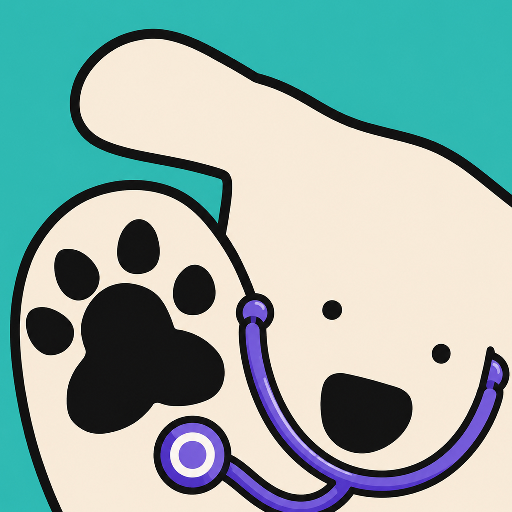
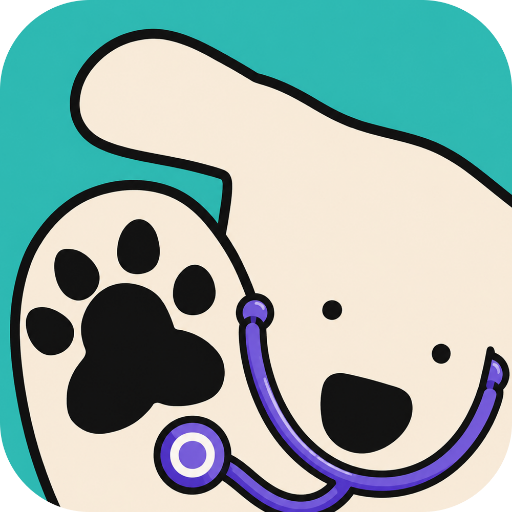
파비콘 수정 챌린지 토스트 메시지 수정

diff --git a/src/pages/Mission.tsx b/src/pages/Mission.tsx
@@ -22,7 +22,14 @@ import {
   MISSION_ACTIVITY_RECORDS_CHANGE_EVENT,
   readMissionActivityRecords,
 } from '../utils/missionActivityRecords'
-import { markWalkRecorded, markMealRecorded } from '../utils/challengeStatus'
+import {
+  markWalkRecorded,
+  markMealRecorded,
+  getCurrentChallengeDay,
+  checkChallengeDayDone,
+  isChallengeDayClaimed,
+  claimChallengeDay,
+} from '../utils/challengeStatus'
 import {
   MISSION_HISTORY_RECORDS_CHANGE_EVENT,
   readMissionHistoryRecordsWithDefaults,
@@ -922,6 +929,23 @@ function Mission() {
       content: `${petName}의 기록이 저장되었어요.`,
       path: '/mission',
     })
+
+    if (selectedCategory.id === 'walk' || selectedCategory.id === 'meal') {
+      const challengeDay = getCurrentChallengeDay()
+      if (checkChallengeDayDone(challengeDay) && !isChallengeDayClaimed(challengeDay)) {
+        claimChallengeDay(challengeDay)
+        addUserNotification({
+          title: '챌린지',
+          content: '오늘의 챌린지가 참여되었습니다. 포인트 받아주세요.',
+          path: '/community/challenge',
+        })
+        showStateBarMessage('오늘의 챌린지가 참여되었습니다.\n포인트 받아주세요.', 5000, {
+          actionLabel: '이동하기',
+          onAction: () => navigate('/community/challenge'),
+        })
+      }
+    }
+
     requestCloseMissionSheet()
   }
 

diff --git a/src/hooks/useSwipeNav.ts b/src/hooks/useSwipeNav.ts
@@ -1,6 +1,18 @@
 import { useEffect, useRef } from 'react'
 import { useNavigate } from 'react-router'
 
+function isInsideHorizontalScroll(target: EventTarget | null): boolean {
+  let node = target instanceof Element ? target : null
+  while (node && node !== document.body) {
+    if (node.scrollWidth > node.clientWidth) {
+      const overflow = window.getComputedStyle(node).overflowX
+      if (overflow === 'auto' || overflow === 'scroll') return true
+    }
+    node = node.parentElement
+  }
+  return false
+}
+
 export function useSwipeNav(leftSwipe?: string, rightSwipe?: string) {
   const navigate = useNavigate()
   const startX = useRef<number | null>(null)
@@ -10,6 +22,7 @@ export function useSwipeNav(leftSwipe?: string, rightSwipe?: string) {
     if (!leftSwipe && !rightSwipe) return
 
     const onStart = (e: TouchEvent) => {
+      if (isInsideHorizontalScroll(e.target)) return
       startX.current = e.touches[0].clientX
       startY.current = e.touches[0].clientY
     }

diff --git a/src/pages/community/CommunityOverview.tsx b/src/pages/community/CommunityOverview.tsx
@@ -3,7 +3,7 @@ import './CommunityOverview.css'
 import { useEffect, useState } from 'react'
 import { useNavigate } from 'react-router'
 import { useSwipeNav } from '../../hooks/useSwipeNav'
-import { checkChallengeDayDone, readCurrentDay, saveCurrentDay, claimChallengeDay, calculateChallengeRewardPoints, isChallengeDayClaimed, CHALLENGE_STATUS_CHANGED_EVENT } from '../../utils/challengeStatus'
+import { checkChallengeDayDone, readCurrentDay, saveCurrentDay, claimChallengeDay, isChallengeDayClaimed, CHALLENGE_STATUS_CHANGED_EVENT } from '../../utils/challengeStatus'
 import { challengeDays } from './CommunityChallenge'
 import PageHeader from '../../components/PageHeader'
 import HeaderIcon from '../../components/HeaderIcon'
@@ -83,12 +83,11 @@ function CommunityOverview() {
             })
           }}
           onComplete={() => {
-            const points = calculateChallengeRewardPoints()
             claimChallengeDay(currentDay)
-            addUserNotification({ title: '챌린지', content: '오늘의 챌린지가 참여되었습니다. 포인트 받아주세요.', path: `/community/challenge/reward?amount=${points}` })
+            addUserNotification({ title: '챌린지', content: '오늘의 챌린지가 참여되었습니다. 포인트 받아주세요.', path: '/community/challenge' })
             showStateBarMessage('오늘의 챌린지가 참여되었습니다.\n포인트 받아주세요.', 5000, {
               actionLabel: '이동하기',
-              onAction: () => navigate(`/community/challenge/reward?amount=${points}`),
+              onAction: () => navigate('/community/challenge'),
               closeButton: false,
             })
           }}

diff --git a/src/pages/community/CommunityChallenge.tsx b/src/pages/community/CommunityChallenge.tsx
@@ -267,7 +267,7 @@ function CommunityChallenge() {
     const next = new Set([...participatedDays, currentDay])
     setParticipatedDays(next)
     saveParticipatedDays(next)
-    addUserNotification({ title: '챌린지', content: '오늘의 챌린지가 참여되었습니다. 포인트 받아주세요.', path: `/community/challenge/reward?amount=${points}` })
+    addUserNotification({ title: '챌린지', content: '오늘의 챌린지가 참여되었습니다. 포인트 받아주세요.', path: '/community/challenge' })
     navigate(`/community/challenge/reward?amount=${points}`)
   }
 